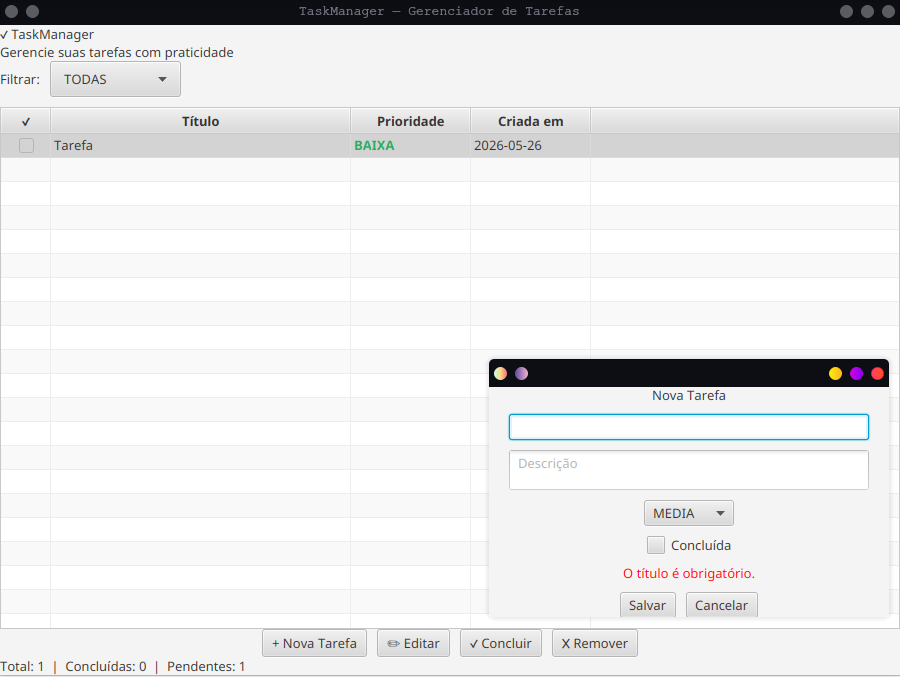
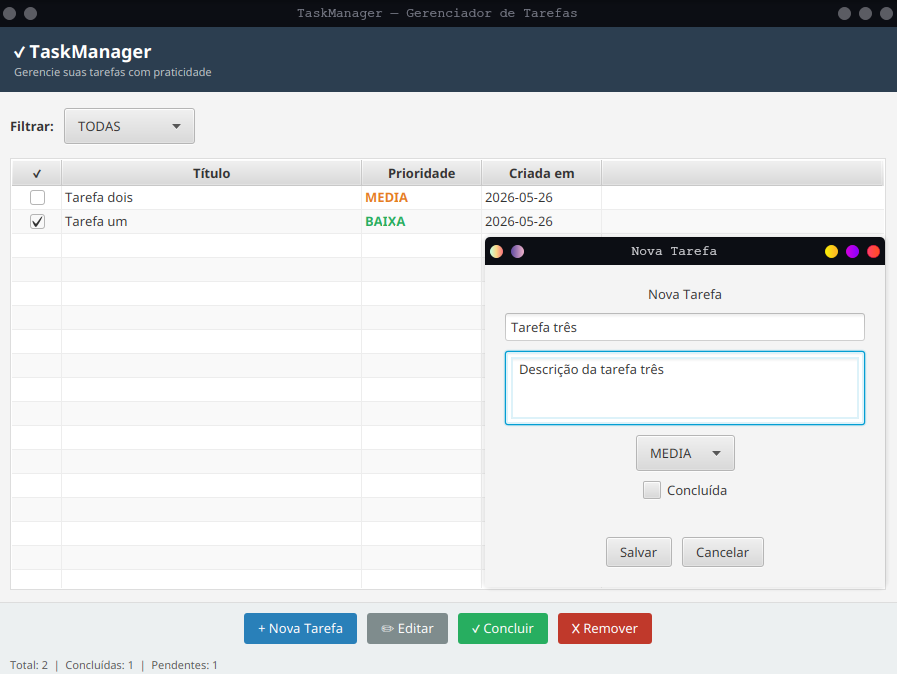
atualiza CSS e screenshot da tela principal

Changed region(s): [[0.0, 0.0, 1.0, 1.0], [0.7179, 0.4362, 0.8116, 0.4674], [0.0, 0.8724, 0.0312, 0.9036]]

diff --git a/src/main/resources/com/taskmanager/css/style.css b/src/main/resources/com/taskmanager/css/style.css
@@ -1,9 +1,88 @@
 .root {
     -fx-font-family: Arial;
+    -fx-font-size: 13px;
+    -fx-background-color: #f4f4f4;
+}
+
+.header {
+    -fx-padding: 12 16;
+    -fx-background-color: #2c3e50;
+}
+
+.header-title {
+    -fx-font-size: 18px;
+    -fx-font-weight: bold;
+    -fx-text-fill: white;
+}
+
+.header-subtitle {
+    -fx-font-size: 11px;
+    -fx-text-fill: #bdc3c7;
+}
+
+.content-area {
+    -fx-padding: 12;
+}
+
+.filter-bar {
+    -fx-padding: 4 0;
+}
+
+.filter-label {
+    -fx-font-weight: bold;
+}
+
+.task-table {
+    -fx-border-color: #ddd;
+}
+
+.placeholder-label {
+    -fx-text-fill: #888;
+    -fx-font-style: italic;
+}
+
+.footer {
+    -fx-background-color: #ecf0f1;
+    -fx-border-color: #ddd;
+    -fx-border-width: 1 0 0 0;
+}
+
+.action-bar {
+    -fx-padding: 10;
+}
+
+.status-bar {
+    -fx-padding: 4 12;
+}
+
+.status-label {
+    -fx-font-size: 11px;
+    -fx-text-fill: #555;
 }
 
 .button {
-    -fx-padding: 5 10;
+    -fx-padding: 6 14;
+    -fx-cursor: hand;
+}
+
+.btn-primary {
+    -fx-background-color: #2980b9;
+    -fx-text-fill: white;
+}
+
+.btn-secondary {
+    -fx-background-color: #7f8c8d;
+    -fx-text-fill: white;
+}
+
+.btn-success {
+    -fx-background-color: #27ae60;
+    -fx-text-fill: white;
+}
+
+.btn-danger {
+    -fx-background-color: #c0392b;
+    -fx-text-fill: white;
 }
 
 .text-field,